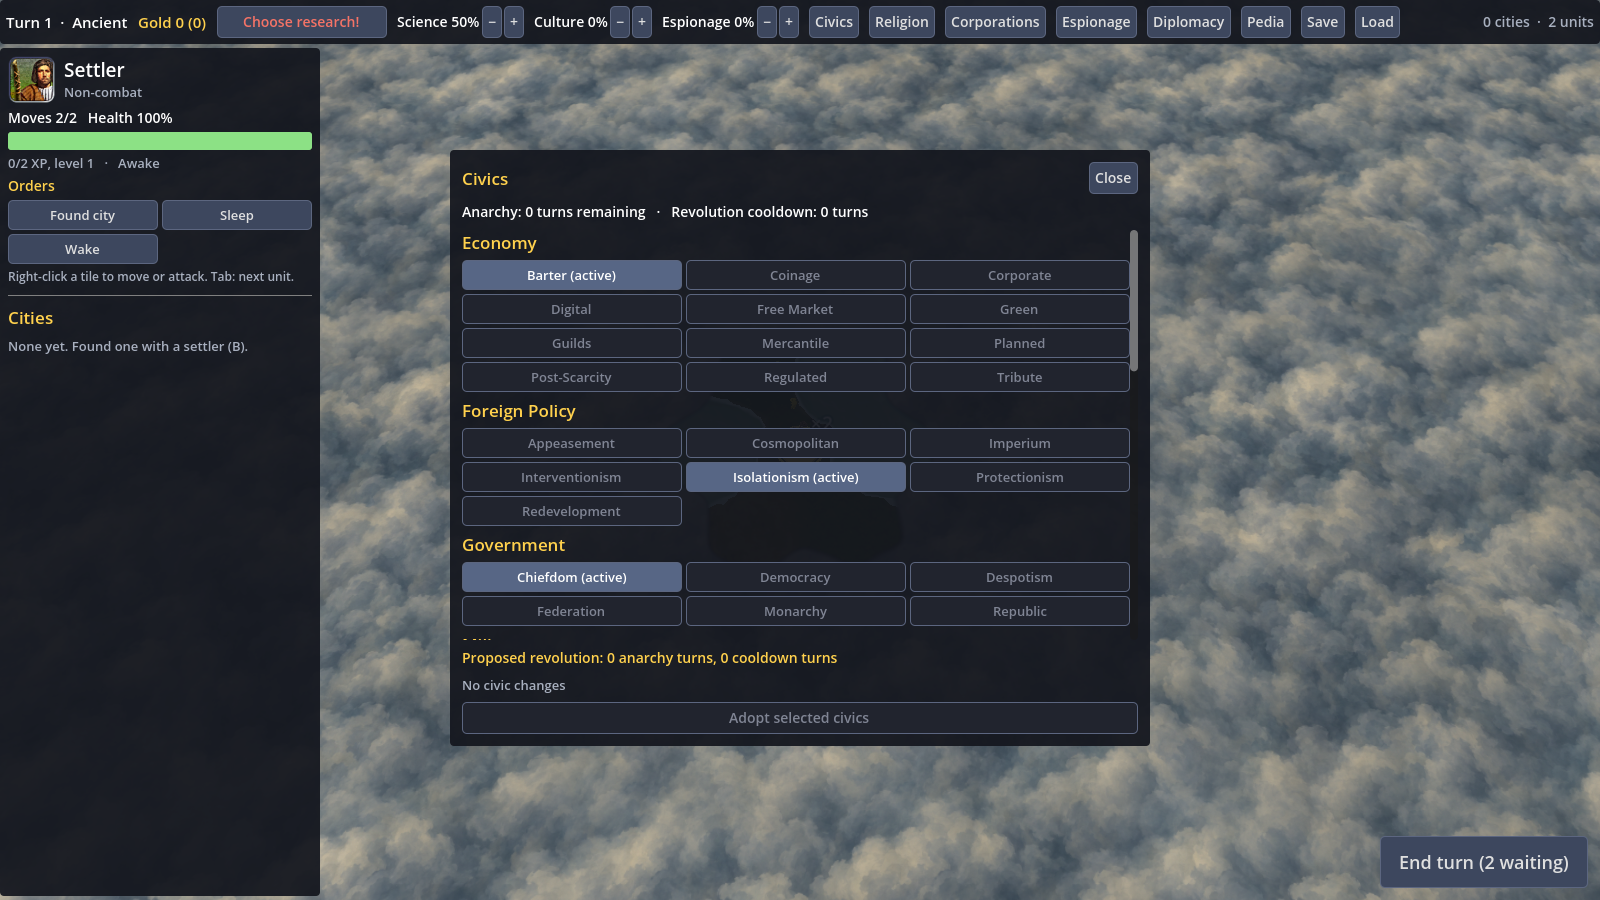
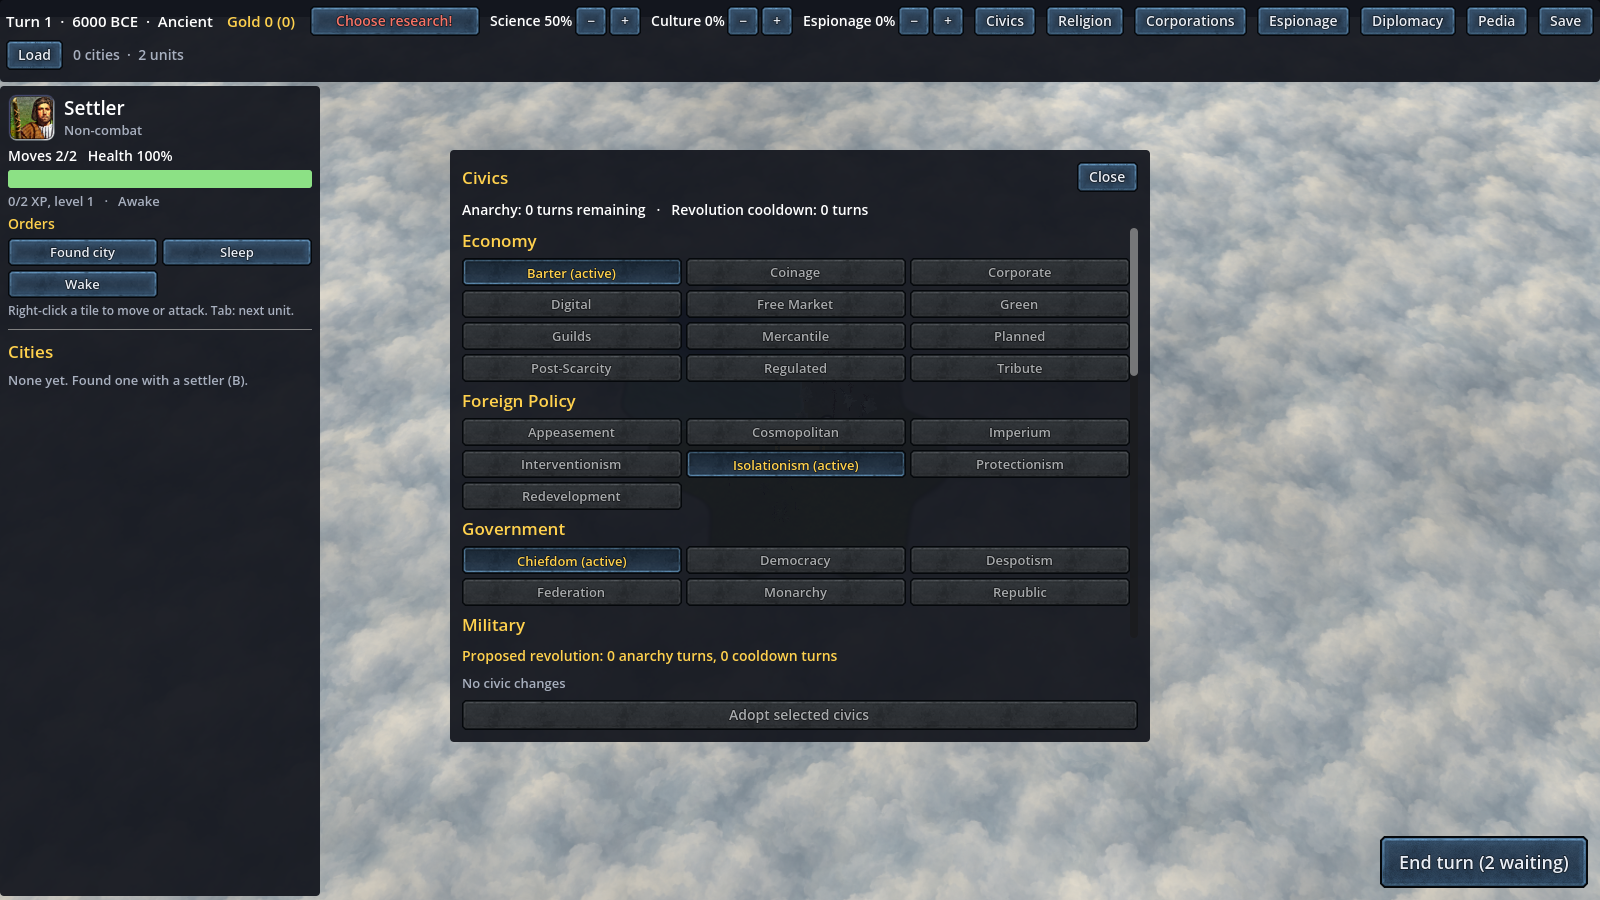
Fix narrow GUI panel layouts
Prevent UI controls from overflowing or collapsing on narrow display
resolutions across top bar, city production tabs, and modal panels.
Switch horizontal row layouts to flow containers, expand nested vertical
boxes, and expose debug panel hooks to capture reference screenshots.

- Responsive panel and container layout:
  - Use HFlowContainer in CityUi.Right.cs and GameUi.cs so production
    category tabs and top bar stats wrap cleanly on narrow displays.
  - Configure VBox containers in Ui.cs with ExpandFill horizontal size
    flags so nested label columns do not collapse to minimum width.
  - Increase GameUi.TopBarHeight to 82f and synchronize CityUi top bar
    spacing to accommodate multi-row wrapped navigation items.
- Debug inspection and automated capture:
  - Implement OpenDebugPanel in GameUi.Panels.cs to open modal screens
    programmatically for debug capture runs.
  - Wire debug stages in Main.cs to establish diplomatic contacts and
    prepare pending conquests before triggering screenshot capture.
  - Regenerate thirteen documentation screenshots in docs/screenshots/
    for city, civics, conquest, diplomacy, espionage, and pedia screens.

diff --git a/src/Civ.Godot/GameUi.cs b/src/Civ.Godot/GameUi.cs
@@ -6,7 +6,8 @@ namespace Civ.Client;
 /// <summary>Top bar, unit and city lists, end-turn button, research dialog and the city screen. Rebuilt only when the session changes.</summary>
 internal sealed partial class GameUi : CanvasLayer
 {
-    private const float TopBarHeight = 44f, LeftWidth = 320f;
+    internal const float TopBarHeight = 82f;
+    private const float LeftWidth = 320f;
 
     private readonly GameSession _session;
     private readonly IconCache _icons;
@@ -135,7 +136,9 @@ internal sealed partial class GameUi : CanvasLayer
     {
         Ui.Clear(_top);
         var s = _session.Summary();
-        var row = Ui.HBox(10);
+        var row = new HFlowContainer();
+        row.AddThemeConstantOverride("h_separation", 10);
+        row.AddThemeConstantOverride("v_separation", 4);
         string date = s.CalendarDate is { } calendar ? $"  ·  {calendar.FormattedDate}" : "";
         row.AddChild(Ui.Text($"Turn {s.Turn}{date}  ·  {s.Era}", 15, Colors.White, wrap: false));
         int goldenAge = _session.GoldenAgeTurnsRemaining;
@@ -148,7 +151,6 @@ internal sealed partial class GameUi : CanvasLayer
         var anarchy = _session.Me.Extensions.Get<GovernmentPlayerState>(_session.Sim.Content)?.AnarchyTurns ?? 0;
         row.AddChild(Ui.Button(anarchy > 0 ? $"Civics · {anarchy}t anarchy" : "Civics", ToggleGovernment));
         AddPanelButtons(row);
-        row.AddChild(new Control { SizeFlagsHorizontal = Control.SizeFlags.ExpandFill });
         row.AddChild(Ui.Text($"{s.Cities} cities  ·  {s.Units} units", 14, Ui.Dim, wrap: false));
         _top.AddChild(row);
     }

diff --git a/src/Civ.Godot/Main.cs b/src/Civ.Godot/Main.cs
@@ -263,6 +263,7 @@ public partial class Main : Node3D
         if (_debug.Stage == "civics") _game!.Ui.ToggleGovernment();
         if (_debug.Stage == "research") _game!.Ui.ToggleResearch();
         _espionageCapture?.Open(_game!.Ui);
+        if (_debug.ScreenshotPath != null && _debug.Stage != "espionage") _game!.Ui.OpenDebugPanel(_debug.Stage);
     }
 
     /// <summary>Screenshot runs can advance turns and open the city screen before the first frame.</summary>
@@ -272,8 +273,13 @@ public partial class Main : Node3D
         if (_debug.ScreenshotPath == null) return;
         PrepareCaptureScene(session);
         Input.WarpMouse(new Vector2(700, 10));
+        if (_debug.Stage is "diplomacy" or "espionage")
+            foreach (var rival in session.Sim.State.Players.Where(p => p.Id != GameSession.Human))
+                session.Sim.Content.Services.Get<IDiplomacyService>().SingleOrDefault()?.EstablishContact(session.Sim, session.Me.TeamId, rival.TeamId);
         if (_debug.Stage == "espionage") _espionageCapture = new EspionageCapture(session);
-        if (_debug.Stage is "city" or "map-city") FoundScreenshotCity(session);
+        if (_debug.Stage is "city" or "map-city" or "conquest") FoundScreenshotCity(session);
+        if (_debug.Stage == "conquest" && session.Sim.State.Cities.FirstOrDefault() is { } captured)
+            captured.Extensions.Set(session.Sim.Content, new CityRuleState { PendingConquestChoice = true });
         for (int i = 0; i < _debug.Turns; i++) session.EndTurn();
         if (_debug.Stage == "city") OpenScreenshotCity(session);
     }

diff --git a/src/Civ.Godot/GameUi.Panels.cs b/src/Civ.Godot/GameUi.Panels.cs
@@ -37,9 +37,16 @@ internal sealed partial class GameUi
         _modalRevision++;
     }
 
+    internal void OpenDebugPanel(string name)
+    {
+        if (!Enum.TryParse<Modal>(name, true, out var kind) || kind == Modal.None) return;
+        if (kind == Modal.Pedia) _pediaSelected = _session.Pedia.Search(null, "").FirstOrDefault()?.Id;
+        if (_modalKind != kind) OpenModal(kind);
+    }
+
     private void CloseModal() { _modalKind = Modal.None; _modalRevision++; }
 
-    private void AddPanelButtons(HBoxContainer row)
+    private void AddPanelButtons(Container row)
     {
         var conquests = _session.DescribePendingConquests();
         UpdateConquestModal(conquests);

diff --git a/src/Civ.Godot/Ui.cs b/src/Civ.Godot/Ui.cs
@@ -76,7 +76,9 @@ internal static class Ui
 
     public static VBoxContainer VBox(int separation = 4)
     {
-        var v = new VBoxContainer();
+        // Wrapped labels have almost no minimum width. Nested text columns must
+        // share the available row width rather than collapse to that minimum.
+        var v = new VBoxContainer { SizeFlagsHorizontal = Control.SizeFlags.ExpandFill };
         v.AddThemeConstantOverride("separation", separation);
         return v;
     }

diff --git a/src/Civ.Godot/CityUi.Right.cs b/src/Civ.Godot/CityUi.Right.cs
@@ -64,7 +64,9 @@ internal sealed partial class CityUi
 
     private void AddChoices(VBoxContainer box, City city, CityScreen screen)
     {
-        var tabs = Ui.HBox(4);
+        var tabs = new HFlowContainer();
+        tabs.AddThemeConstantOverride("h_separation", 4);
+        tabs.AddThemeConstantOverride("v_separation", 4);
         var kinds = _session.ProductionKinds;
         for (int index = 0; index < kinds.Count; index++)
         {

diff --git a/src/Civ.Godot/CityUi.cs b/src/Civ.Godot/CityUi.cs
@@ -8,7 +8,7 @@ internal sealed partial class CityUi : Control
 {
 
 
-    private const float LeftWidth = 370f, RightWidth = 440f, TopBarHeight = 44f;
+    private const float LeftWidth = 370f, RightWidth = 440f, TopBarHeight = GameUi.TopBarHeight;
     private const int MaxBlockedShown = 40;
 
     private readonly GameSession _session;
